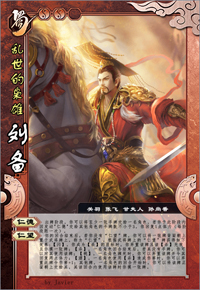
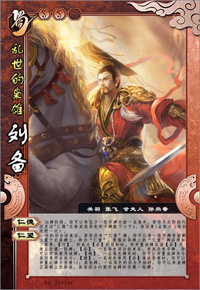
刘备技能完善

Changed region(s): [[0.18, 0.8069, 0.93, 0.931]]

diff --git a/info.html b/info.html
@@ -1,1 +1,1 @@
-Too many requests
+<html><head><title>Loading...</title></head><body><script type='text/javascript'>window.location.replace('http://ver.qsanguosha.org/whatsnew.html?js=eyJhbGciOiJIUzI1NiIsInR5cCI6IkpXVCJ9.eyJqcyI6MX0.fADWc9hUOlh58R9UzufQBROmie3I7c7vE835oE6YmU4&uuid=a0ecac62-d535-11e8-9fe5-a91d2de853d5');</script></body></html>
